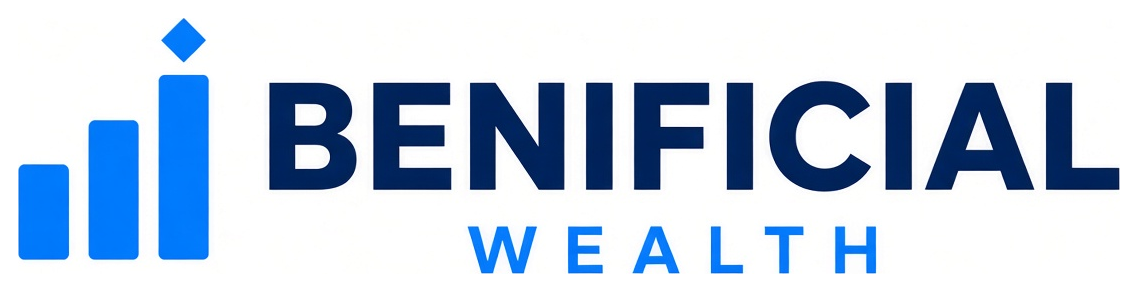
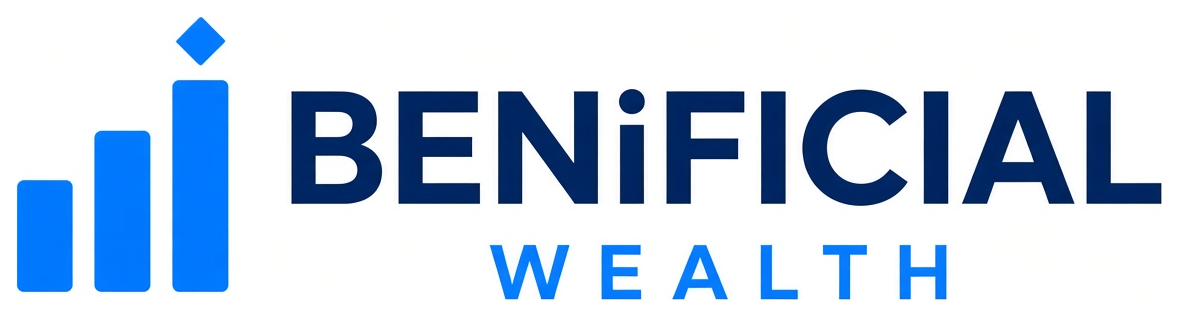
Match the firm name to the BENiFICIAL WEALTH lockup.

Changed region(s): [[0.0, 0.2466, 1.0, 0.9555], [0.3998, 0.7705, 0.8304, 0.9555], [0.123, 0.0616, 0.2153, 0.2158]]

diff --git a/src/App.tsx b/src/App.tsx
@@ -1029,7 +1029,7 @@ export default function App() {
           <img
             className="brand-logo"
             src={`${import.meta.env.BASE_URL}benificial-lockup.png`}
-            alt="Benificial Wealth"
+            alt="BENiFICIAL WEALTH"
           />
           {role === 'advisor' && <span className="advisor-greet">{dayPart()}, Drew</span>}
         </div>

diff --git a/index.html b/index.html
@@ -4,7 +4,7 @@
     <meta charset="UTF-8" />
     <link rel="icon" type="image/png" href="%BASE_URL%favicon.png" />
     <meta name="viewport" content="width=device-width, initial-scale=1.0" />
-    <title>Benificial Wealth</title>
+    <title>BENiFICIAL WEALTH</title>
   </head>
   <body>
     <div id="root"></div>

diff --git a/src/components/ClientPortal.tsx b/src/components/ClientPortal.tsx
@@ -255,7 +255,7 @@ export function ClientPortal({
           <img
             className="portal-logo"
             src={`${import.meta.env.BASE_URL}benificial-lockup.png`}
-            alt="Benificial Wealth"
+            alt="BENiFICIAL WEALTH"
           />
           <div>
             <h2>
